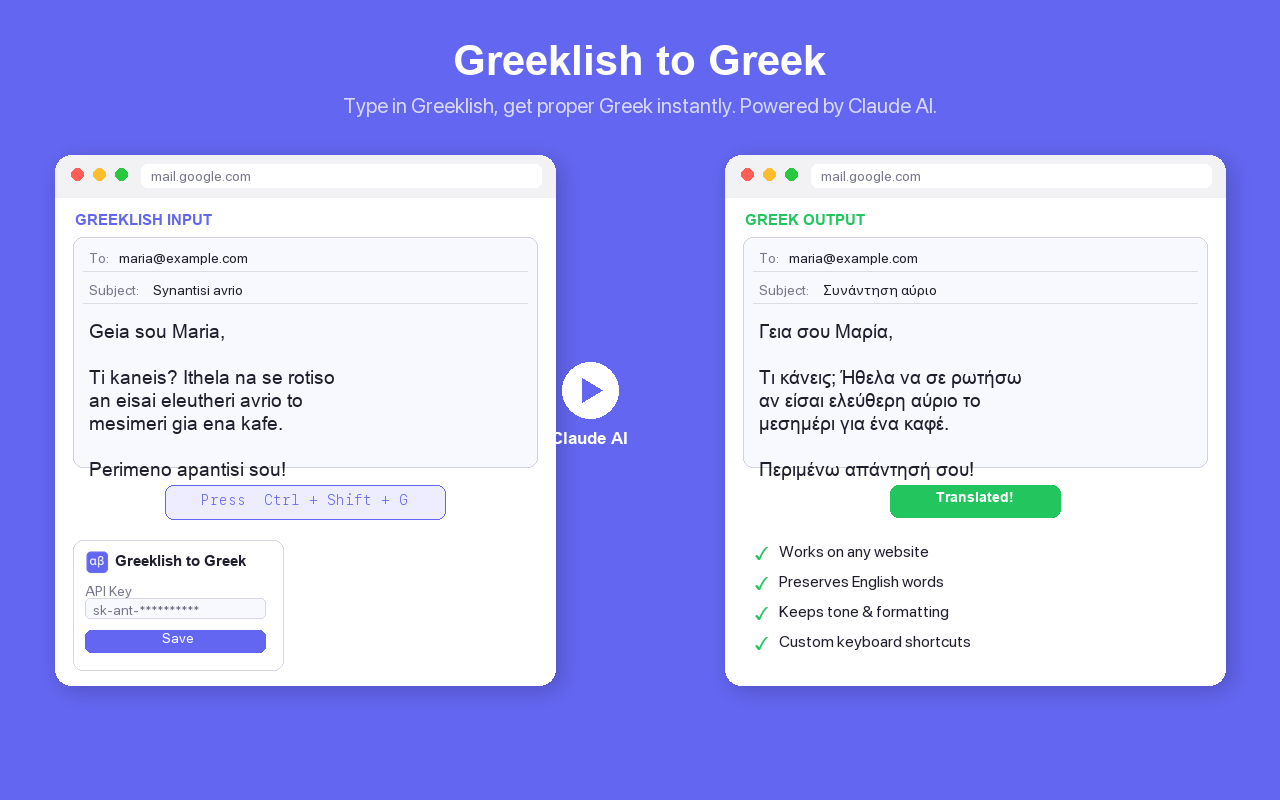
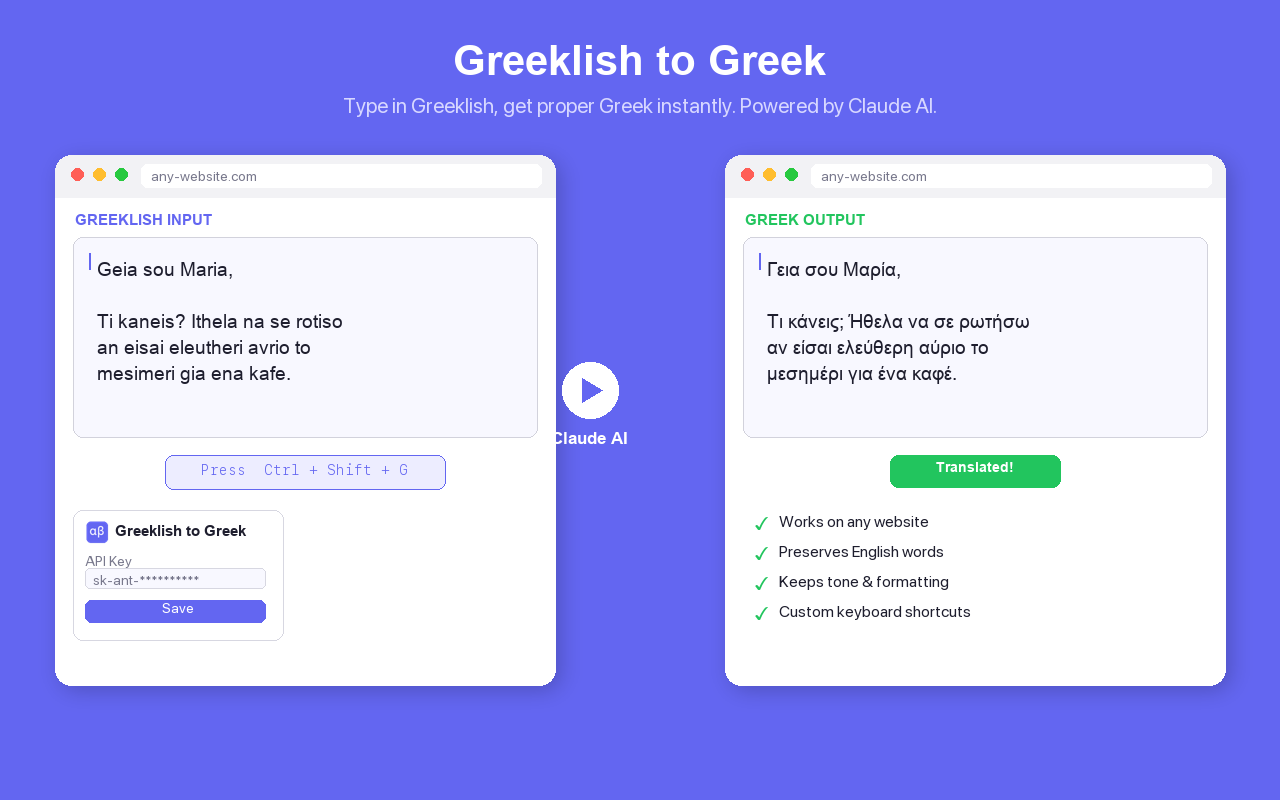
Update promo screenshot: generic text box style, remove last line

diff --git a/create_screenshot.py b/create_screenshot.py
@@ -64,23 +64,19 @@ def browser_chrome(draw, x, y, w, url_text):
     draw.text((ub + 10, y + 12), url_text, font=f_small, fill=GRAY)
 
 
-def compose_box(draw, x, y, w, h, subject_text, lines, outline_color=(210, 210, 220)):
+def text_box(draw, x, y, w, h, lines, outline_color=(210, 210, 220)):
     draw.rounded_rectangle((x, y, x + w, y + h), 10, fill=LIGHT_BG, outline=outline_color)
-    draw.text((x + 16, y + 12), "To:", font=f_small, fill=GRAY)
-    draw.text((x + 46, y + 12), "maria@example.com", font=f_small, fill=DARK)
-    draw.line((x + 10, y + 34, x + w - 10, y + 34), fill=(220, 220, 230))
-    draw.text((x + 16, y + 44), "Subject:", font=f_small, fill=GRAY)
-    draw.text((x + 80, y + 44), subject_text, font=f_small, fill=DARK)
-    draw.line((x + 10, y + 66, x + w - 10, y + 66), fill=(220, 220, 230))
-    ty = y + 80
+    # Blinking cursor line at top
+    draw.line((x + 16, y + 16, x + 16, y + 32), fill=ACCENT, width=2)
+    ty = y + 18
     for line in lines:
-        draw.text((x + 16, ty), line, font=f_body, fill=DARK)
-        ty += 23
+        draw.text((x + 24, ty), line, font=f_body, fill=DARK)
+        ty += 26
 
 
 # ==================== LEFT PANEL (BEFORE) ====================
 draw.rounded_rectangle((left_x, panel_y, left_x + panel_w, panel_y + panel_h), 16, fill=WHITE)
-browser_chrome(draw, left_x, panel_y, panel_w, "mail.google.com")
+browser_chrome(draw, left_x, panel_y, panel_w, "any-website.com")
 
 draw.text((left_x + 20, panel_y + 56), "GREEKLISH INPUT", font=f_label, fill=ACCENT)
 
@@ -90,18 +86,16 @@ greeklish = [
     "Ti kaneis? Ithela na se rotiso",
     "an eisai eleutheri avrio to",
     "mesimeri gia ena kafe.",
-    "",
-    "Perimeno apantisi sou!",
 ]
-compose_box(draw, left_x + 18, panel_y + 82, panel_w - 36, 230, "Synantisi avrio", greeklish)
+text_box(draw, left_x + 18, panel_y + 82, panel_w - 36, 200, greeklish)
 
 # Keyboard shortcut badge
-sy = panel_y + 330
+sy = panel_y + 300
 draw.rounded_rectangle((left_x + 110, sy, left_x + panel_w - 110, sy + 34), 8, fill=(237, 237, 255), outline=ACCENT, width=1)
 draw.text((left_x + panel_w // 2, sy + 8), "Press  Ctrl + Shift + G", font=f_mono, fill=ACCENT, anchor="mt")
 
 # Mini popup preview
-py = panel_y + 385
+py = panel_y + 355
 pw = 210
 draw.rounded_rectangle((left_x + 18, py, left_x + 18 + pw, py + 130), 10, fill=WHITE, outline=(215, 215, 225))
 
@@ -130,7 +124,7 @@ draw.text((ax, ay + 42), "Claude AI", font=f_arrow, fill=WHITE, anchor="mt")
 
 # ==================== RIGHT PANEL (AFTER) ====================
 draw.rounded_rectangle((right_x, panel_y, right_x + right_w, panel_y + panel_h), 16, fill=WHITE)
-browser_chrome(draw, right_x, panel_y, right_w, "mail.google.com")
+browser_chrome(draw, right_x, panel_y, right_w, "any-website.com")
 
 draw.text((right_x + 20, panel_y + 56), "GREEK OUTPUT", font=f_label, fill=GREEN)
 
@@ -140,21 +134,18 @@ greek = [
     "\u03a4\u03b9 \u03ba\u03ac\u03bd\u03b5\u03b9\u03c2; \u0389\u03b8\u03b5\u03bb\u03b1 \u03bd\u03b1 \u03c3\u03b5 \u03c1\u03c9\u03c4\u03ae\u03c3\u03c9",
     "\u03b1\u03bd \u03b5\u03af\u03c3\u03b1\u03b9 \u03b5\u03bb\u03b5\u03cd\u03b8\u03b5\u03c1\u03b7 \u03b1\u03cd\u03c1\u03b9\u03bf \u03c4\u03bf",
     "\u03bc\u03b5\u03c3\u03b7\u03bc\u03ad\u03c1\u03b9 \u03b3\u03b9\u03b1 \u03ad\u03bd\u03b1 \u03ba\u03b1\u03c6\u03ad.",
-    "",
-    "\u03a0\u03b5\u03c1\u03b9\u03bc\u03ad\u03bd\u03c9 \u03b1\u03c0\u03ac\u03bd\u03c4\u03b7\u03c3\u03ae \u03c3\u03bf\u03c5!",
 ]
-compose_box(draw, right_x + 18, panel_y + 82, right_w - 36, 230,
-            "\u03a3\u03c5\u03bd\u03ac\u03bd\u03c4\u03b7\u03c3\u03b7 \u03b1\u03cd\u03c1\u03b9\u03bf", greek)
+text_box(draw, right_x + 18, panel_y + 82, right_w - 36, 200, greek)
 
 # Toast
-ty = panel_y + 330
+ty = panel_y + 300
 tw = 170
 tx = right_x + (right_w - tw) // 2
 draw.rounded_rectangle((tx, ty, tx + tw, ty + 32), 8, fill=GREEN)
 draw.text((tx + tw // 2, ty + 7), "Translated!", font=f_toast, fill=WHITE, anchor="mt")
 
 # Features list
-fy = panel_y + 385
+fy = panel_y + 355
 features = [
     "Works on any website",
     "Preserves English words",
